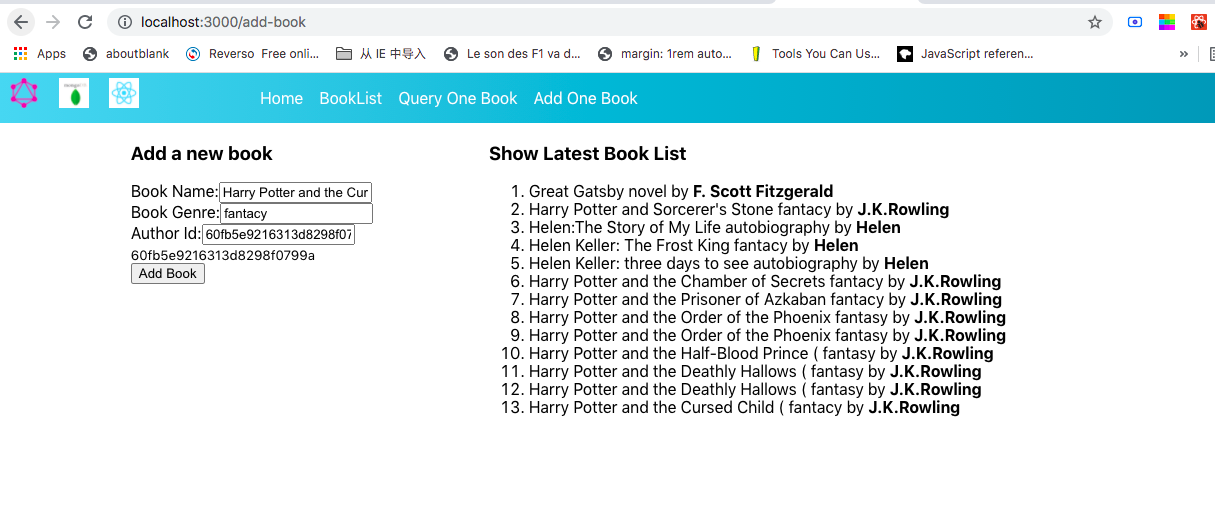
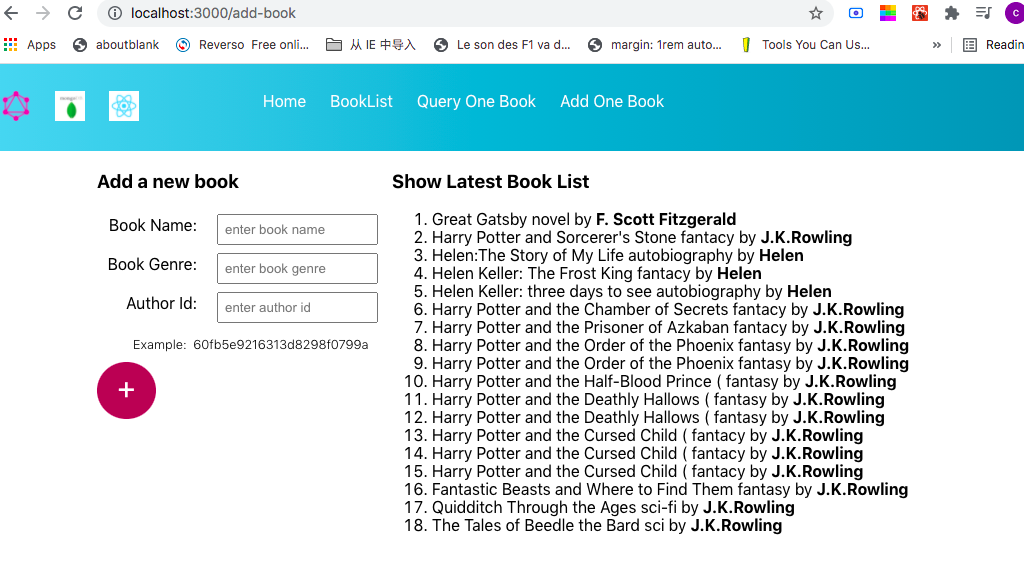
modify css

Changed region(s): [[0.0, 0.0, 1.0, 0.9557], [0.0938, 0.5857, 0.375, 0.7399]]

diff --git a/src/components/AddOneBook.js b/src/components/AddOneBook.js
@@ -3,25 +3,6 @@ import { useMutation, useQuery } from '@apollo/client';
 import { AddBook, GetBooksQuery } from '../queries/queries';
 import './AddOneBook.css';
 
-// function BookList(props) {
-//   let inputName;
-//   let inputGenre;
-//   let inputAuthorId;
-//   const [addBook, { data }] = useMutation(AddBook);
-
-//   return (
-//     <div className="container">
-//       <form
-//         onSubmit={(e) => {
-//           e.preventDefault();
-//           addBook({
-//             variables: {
-//               name: inputName.value,
-//               genre: inputGenre.value,
-//               authorId: inputAuthorId.value,
-//             },
-//           });
-
 function AddOneBook(props) {
   const [addBook, { data }] = useMutation(AddBook);
   const { loading, error, data: booklist } = useQuery(GetBooksQuery);
@@ -46,7 +27,7 @@ function AddOneBook(props) {
       <div className="input_area">
         <form onSubmit={(e) => addBookByClick(e)}>
           <h3>Add a new book</h3>
-          <div>
+          <div className="field">
             <label>Book Name:</label>
             <input
               placeholder="enter book name"
@@ -54,7 +35,7 @@ function AddOneBook(props) {
               ref={(node) => (bookName = node)}
             />
           </div>
-          <div>
+          <div className="field">
             <label>Book Genre:</label>
             <input
               placeholder="enter book genre"
@@ -62,7 +43,7 @@ function AddOneBook(props) {
               ref={(node) => (bookGenre = node)}
             />
           </div>
-          <div>
+          <div className="field">
             <label>Author Id:</label>
             <input
               placeholder="enter author id"
@@ -70,10 +51,10 @@ function AddOneBook(props) {
               ref={(node) => (authorId = node)}
             />
           </div>
-          <div>
-            <small>60fb5e9216313d8298f0799a</small>
+          <div className="field_comment">
+            Example:&nbsp; 60fb5e9216313d8298f0799a
           </div>
-          <button type="submit">Add Book</button>
+          <button type="submit">+</button>
         </form>
       </div>
       <div className="show_area">

diff --git a/src/App.css b/src/App.css
@@ -1,3 +1,9 @@
+*,
+*::after,
+*::before {
+  box-sizing: border-box;
+}
+
 .nav_wrapper {
   display: flex;
   flex-flow: row;
@@ -14,24 +20,25 @@
   width: 30px;
   height: 30px;
   object-fit: cover;
-  margin: 0 5px;
-  padding: 5px;
-  vertical-align: center;
+  margin: 27px 12px 27px 12px;
 }
 .navbar {
   min-width: 400px;
   list-style-type: none;
   margin-left: 100px;
-  padding: 0;
-  display: flex;
-  justify-content: space-evenly;
+  padding: 0px;
+}
+
+.navbar_item {
+  display: inline-block;
+  margin: 12px;
+  cursor: pointer;
 }
 
 .navbar_item a:link,
 a:visited {
   color: white;
   width: 120px;
-  padding: 5px;
   text-decoration: none;
 }
 
@@ -46,10 +53,11 @@ a:active {
 .card {
   border: 1px solid #6dd5ed;
   border-radius: 4px;
-  margin: 10px;
+  margin: 10px auto;
   padding: 10px;
-  max-width: 300px;
-  box-shadow: 0 2px 2px rgba(0, 0, 0, 0.1);
+  width: 90%;
+  max-width: 900px;
+  box-shadow: 1px 3px 4px rgba(0, 0, 0, 0.15);
 }
 
 .card ul {

diff --git a/src/components/AddOneBook.css b/src/components/AddOneBook.css
@@ -19,3 +19,27 @@
 
   border-radius: 4px 4px 0 0;
 }
+
+form .field {
+  display: grid;
+  grid-template-columns: 1fr 1fr;
+  gap: 10px;
+}
+
+form label {
+  text-align: right;
+  padding: 6px;
+}
+
+form input,
+form input {
+  margin: 4px;
+  padding: 6px;
+}
+
+form .field_comment {
+  margin: 4px 0px 4px 30px;
+  padding: 6px;
+  font-size: 0.8rem;
+  font-weight: 300;
+}

diff --git a/src/components/BookList.css b/src/components/BookList.css
@@ -3,6 +3,13 @@
   justify-content: flex-start;
 }
 
-.container {
-  border: 1px solid red;
+form button {
+  color: #fff;
+  font-size: 2em;
+  background: #ad1457;
+  border: 0;
+  padding: 10px 20px;
+  border-radius: 50%;
+  cursor: pointer;
+  margin: 0 auto;
 }

diff --git a/src/components/BookList.js b/src/components/BookList.js
@@ -13,7 +13,7 @@ function BookList() {
   if (loadingError) return <div>{JSON.stringify(loadingError)}</div>;
 
   return (
-    <div className="container">
+    <div className="card">
       <div>
         <h1>Book List</h1>
 
